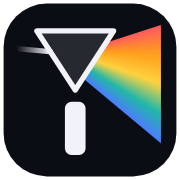
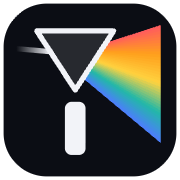
style(brand): i-PRISM 로고 글자를 i-Prism(rism 소문자)으로 변경

diff --git a/dashboard/src/components/brand/IPrismLogo.tsx b/dashboard/src/components/brand/IPrismLogo.tsx
@@ -104,12 +104,12 @@ const MARK_FAN: [string, string][] = [
 ];
 const PRISM_GLYPHS: string[] = [
   'M127.32 97.56V81.96H142.08Q149.40 81.96 153.00 79.02Q156.60 76.08 156.60 69.24Q156.60 62.76 153.30 59.58Q150.00 56.40 143.28 56.40H127.32V40.80H144.36Q151.20 40.80 157.08 42.42Q162.96 44.04 167.34 47.52Q171.72 51.00 174.18 56.28Q176.64 61.56 176.64 69.00Q176.64 78.48 172.38 84.84Q168.12 91.20 160.08 94.38Q152.04 97.56 140.40 97.56ZM112.80 120.00V40.80H132.24V120.00Z',
-  'M183.12 120.00V40.80H216.00Q221.28 40.80 226.02 41.70Q230.76 42.60 234.66 44.40Q238.56 46.20 241.44 48.96Q244.32 51.72 245.88 55.50Q247.44 59.28 247.44 64.08Q247.44 67.80 246.18 71.10Q244.92 74.40 242.22 77.04Q239.52 79.68 235.26 81.42Q231.00 83.16 225.12 83.88V84.84Q232.80 85.20 237.00 87.84Q241.20 90.48 243.30 94.50Q245.40 98.52 246.48 103.20L250.68 120.00H229.20L226.20 104.28Q225.48 100.20 223.98 97.68Q222.48 95.16 219.72 93.96Q216.96 92.76 212.40 92.76H202.56V120.00ZM202.56 77.76H213.84Q220.44 77.76 223.92 75.24Q227.40 72.72 227.40 67.56Q227.40 61.92 224.16 59.16Q220.92 56.40 214.32 56.40H202.56Z',
-  'M256.92 120.00V40.80H276.48V120.00Z',
-  'M317.16 121.68Q308.76 121.68 302.46 119.76Q296.16 117.84 291.96 114.24Q287.76 110.64 285.78 105.54Q283.80 100.44 284.04 94.20L302.04 90.24Q302.28 95.76 304.38 99.18Q306.48 102.60 310.08 104.22Q313.68 105.84 318.12 105.84Q321.72 105.84 324.48 104.94Q327.24 104.04 328.86 102.42Q330.48 100.80 330.48 98.64Q330.48 95.76 328.32 93.90Q326.16 92.04 322.38 90.72Q318.60 89.40 313.80 88.08Q308.64 86.64 303.54 84.90Q298.44 83.16 294.24 80.52Q290.04 77.88 287.46 73.68Q284.88 69.48 284.88 63.24Q284.88 55.56 288.78 50.16Q292.68 44.76 299.58 41.94Q306.48 39.12 315.36 39.12Q324.72 39.12 332.04 42.30Q339.36 45.48 343.32 51.60Q347.28 57.72 346.44 66.60L328.68 69.48Q328.80 65.88 327.96 63.12Q327.12 60.36 325.38 58.44Q323.64 56.52 321.00 55.50Q318.36 54.48 314.76 54.48Q311.04 54.48 308.58 55.44Q306.12 56.40 304.86 58.08Q303.60 59.76 303.60 61.92Q303.60 64.44 305.52 66.12Q307.44 67.80 311.04 69.06Q314.64 70.32 319.56 71.64Q324.72 73.08 329.94 74.82Q335.16 76.56 339.60 79.38Q344.04 82.20 346.74 86.64Q349.44 91.08 349.44 97.92Q349.44 105.84 345.30 111.12Q341.16 116.40 333.90 119.04Q326.64 121.68 317.16 121.68Z',
-  'M356.28 120.00V40.80H385.44L401.64 97.08H401.88L417.72 40.80H445.32V120.00H427.32V60.36H427.08L409.20 120.00H392.16L374.52 60.36H374.28V120.00Z',
+  'M182.64 120.00V85.56V56.64H199.44V81.84H200.40Q201.12 71.76 203.22 65.94Q205.32 60.12 208.50 57.66Q211.68 55.20 215.64 55.20Q217.80 55.20 220.14 55.80Q222.48 56.40 224.76 57.72L223.80 79.32Q221.16 77.76 218.64 76.98Q216.12 76.20 213.84 76.20Q210.00 76.20 207.36 78.36Q204.72 80.52 203.34 84.72Q201.96 88.92 201.96 94.92V120.00Z',
+  'M230.64 120.00V56.64H250.08V120.00ZM240.24 52.08Q234.72 52.08 231.78 49.74Q228.84 47.40 228.84 42.96Q228.84 38.40 231.78 36.06Q234.72 33.72 240.24 33.72Q245.88 33.72 248.82 36.12Q251.76 38.52 251.76 42.96Q251.76 47.28 248.82 49.68Q245.88 52.08 240.24 52.08Z',
+  'M286.44 121.68Q280.08 121.68 274.62 120.42Q269.16 119.16 265.14 116.40Q261.12 113.64 259.02 109.02Q256.92 104.40 257.28 97.80L274.20 96.36Q274.44 100.32 276.00 102.90Q277.56 105.48 280.32 106.68Q283.08 107.88 287.04 107.88Q290.76 107.88 293.46 106.62Q296.16 105.36 296.16 102.36Q296.16 100.80 295.20 99.78Q294.24 98.76 291.66 97.86Q289.08 96.96 284.16 95.76Q278.04 94.20 273.12 92.64Q268.20 91.08 264.72 88.92Q261.24 86.76 259.44 83.58Q257.64 80.40 257.64 75.72Q257.64 69.12 261.18 64.50Q264.72 59.88 270.96 57.42Q277.20 54.96 285.36 54.96Q292.68 54.96 299.04 57.24Q305.40 59.52 309.06 64.68Q312.72 69.84 311.76 78.36L295.20 79.92Q295.56 76.44 294.24 73.98Q292.92 71.52 290.40 70.26Q287.88 69.00 284.28 69.00Q280.20 69.00 277.98 70.50Q275.76 72.00 275.76 74.28Q275.76 76.08 277.14 77.34Q278.52 78.60 281.46 79.50Q284.40 80.40 289.08 81.48Q293.16 82.32 297.60 83.64Q302.04 84.96 305.88 87.18Q309.72 89.40 312.12 93.00Q314.52 96.60 314.52 102.12Q314.52 108.00 311.28 112.44Q308.04 116.88 301.80 119.28Q295.56 121.68 286.44 121.68Z',
+  'M320.76 120.00V84.84V56.64H337.20V82.44H338.16Q339.00 72.36 341.46 66.36Q343.92 60.36 348.06 57.66Q352.20 54.96 357.96 54.96Q363.96 54.96 367.68 57.90Q371.40 60.84 373.20 66.90Q375.00 72.96 374.88 82.44H375.84Q376.68 72.48 379.32 66.48Q381.96 60.48 386.28 57.72Q390.60 54.96 396.48 54.96Q401.40 54.96 405.00 56.76Q408.60 58.56 411.06 62.16Q413.52 65.76 414.72 71.22Q415.92 76.68 415.92 84.00V120.00H396.48V85.68Q396.48 81.12 395.70 78.06Q394.92 75.00 393.36 73.50Q391.80 72.00 389.40 72.00Q386.28 72.00 383.64 74.82Q381.00 77.64 379.38 83.28Q377.76 88.92 377.76 97.56V120.00H358.80V85.20Q358.80 80.64 358.02 77.76Q357.24 74.88 355.62 73.44Q354.00 72.00 351.60 72.00Q348.60 72.00 346.02 74.46Q343.44 76.92 341.82 82.56Q340.20 88.20 340.20 97.56V120.00Z',
 ];
-const PRISM_STOPS: [number, string][] = [[0.1028, '#ff5a5f'], [0.3134, '#ff9f1c'], [0.4639, '#ffd23f'], [0.6091, '#22b8a7'], [0.8558, '#4d7cfe']];
+const PRISM_STOPS: [number, string][] = [[0.1128, '#ff5a5f'], [0.3027, '#ff9f1c'], [0.4247, '#ffd23f'], [0.5693, '#22b8a7'], [0.8344, '#4d7cfe']];
 
 const safeId = (id: string) => id.replace(/[^a-zA-Z0-9_-]/g, '');
 
@@ -117,13 +117,13 @@ const safeId = (id: string) => id.replace(/[^a-zA-Z0-9_-]/g, '');
 export function IPrismLogo({ className, title = 'i-Prism' }: { className?: string; title?: string }) {
     const id = safeId(useId());
     return (
-        <svg viewBox="0 37.8 454.12 86.2" className={className} role="img" aria-label={title}>
+        <svg viewBox="0 37.8 423.64 86.2" className={className} role="img" aria-label={title}>
             <defs>
                 <linearGradient id={`${id}-beam`} gradientUnits="userSpaceOnUse" x1="0" y1="0" x2="20.4" y2="0">
                     <stop offset="0" stopColor="currentColor" stopOpacity="0" />
                     <stop offset="1" stopColor="currentColor" />
                 </linearGradient>
-                <linearGradient id={`${id}-text`} gradientUnits="userSpaceOnUse" x1="108" y1="0" x2="450.12" y2="0">
+                <linearGradient id={`${id}-text`} gradientUnits="userSpaceOnUse" x1="108" y1="0" x2="419.64" y2="0">
                     {PRISM_STOPS.map(([o, c]) => <stop key={o} offset={o} stopColor={c} />)}
                 </linearGradient>
             </defs>

diff --git a/dashboard/scripts/generate-brand.py b/dashboard/scripts/generate-brand.py
@@ -26,7 +26,7 @@ RAYS = ["#ff5a5f", "#ff9f1c", "#ffd23f", "#22b8a7", "#4d7cfe"]
 INK = "#f2f3f8"      # 독립 SVG·타일에서 i 줄기·프리즘 윤곽 색
 TILE = "#0b0d14"     # 앱 아이콘 타일 배경
 
-# 로고타입 기하(시안 H2): 역삼각형 프리즘 (14,50)-(46,50)-(30,78), i 줄기, PRISM 글자 120px·기준선 120
+# 로고타입 기하(시안 H2): 역삼각형 프리즘 (14,50)-(46,50)-(30,78), i 줄기, Prism 글자 120px·기준선 120
 FONT_SIZE, BASELINE, TEXT_X = 120, 120, 108
 RAY_END_X = TEXT_X - 6
 
@@ -73,7 +73,7 @@ def build_logotype(font):
     gs, cmap, hmtx = font.getGlyphSet(), font.getBestCmap(), font["hmtx"]
     x = TEXT_X
     glyph_paths, centers = [], []
-    for ch in "PRISM":
+    for ch in "Prism":
         name = cmap[ord(ch)]
         pen = SVGPathPen(gs, ntos=lambda v: f"{v:.2f}")
         gs[name].draw(TransformPen(pen, (scale, 0, 0, -scale, x, BASELINE)))
@@ -195,8 +195,10 @@ def render_pngs(tile):
     from PIL import Image
     from playwright.sync_api import sync_playwright
     sizes = {}
+    chrome_path = "/Applications/Google Chrome.app/Contents/MacOS/Google Chrome"
+    launch_kwargs = {"executable_path": chrome_path} if os.path.exists(chrome_path) else {}
     with sync_playwright() as p:
-        b = p.chromium.launch()
+        b = p.chromium.launch(**launch_kwargs)
         pg = b.new_page()
         for s in (180, 48, 32, 16):
             pg.set_viewport_size({"width": s, "height": s})

diff --git a/docs/project-state.md b/docs/project-state.md
@@ -9,7 +9,7 @@ Base: Exit Strategy Monitoring (KOSPI) & Brazil Bond Analysis
 
 > 세션 핸드오프 (2026-10-04, Claude Code):
 > - 🌗 Dark / Light 토글(상단 바, `ThemeToggle`) 추가. Tailwind v4 색 변수를 `html.light`에서 반전하는 방식(`scripts/generate-light-theme.py` → `app/theme-light.css`). 근거 `docs/theme-light-context-notes.md`. 시장동향 '오늘의 시장' 임베드 주소를 bulliza.com으로 교체(finance.richgo.ai 404).
-> - 🔷 서비스명 ETF Lens → **i-Prism**(Investment Prism) 리브랜딩. 로고는 역삼각형 프리즘 i + 부채꼴 스펙트럼 광선 + 그라데이션 PRISM(시안 H2). 로고·아이콘·파비콘은 `dashboard/scripts/generate-brand.py`로 생성하며 생성물(`components/brand/IPrismLogo.tsx`, `public/brand/*`, `app/icon.svg`, `app/apple-icon.png`, `app/favicon.ico`)은 직접 고치지 않는다. 결정 근거 `docs/iprism-rebrand-context-notes.md`. 도메인(etf-lens.*)과 User-Agent는 유지.
+> - 🔷 서비스명 ETF Lens → **i-Prism**(Investment Prism) 리브랜딩. 로고는 역삼각형 프리즘 i + 부채꼴 스펙트럼 광선 + 그라데이션 Prism(rism 소문자, 시안 H2). 로고·아이콘·파비콘은 `dashboard/scripts/generate-brand.py`로 생성하며 생성물(`components/brand/IPrismLogo.tsx`, `public/brand/*`, `app/icon.svg`, `app/apple-icon.png`, `app/favicon.ico`)은 직접 고치지 않는다. 결정 근거 `docs/iprism-rebrand-context-notes.md`. 도메인(etf-lens.*)과 User-Agent는 유지.
 > - 🐛 대선 D-day 고정값 버그 수정: `ElectionPlaybookSection`의 `D-3 SPECIAL` 라벨과 Tranche 3 카드의 "(D-3 진입 중)"이 JSX에 하드코딩돼 있었고, `_build_election_prompt`도 "D-2~D-3일 앞둔 시점"으로 고정돼 있어 AI 재생성 시에도 같은 D-day가 나왔다. 이제 프론트는 `getElectionDDayLabel()`, 백엔드는 `_election_phase_text()`가 오늘 날짜(KST)와 `CATALYSTS` 대선 일정으로 계산한다. 회귀 테스트는 `test_election_prompt_uses_dynamic_dday`.
 > - 📰 관련 뉴스 피드 개편: 2열 박스 → 최신순 리스트(5건 높이, 최대 30건 스크롤), 항목 클릭 시 팝업(언론사·발행시각·원문 링크), [뉴스 업데이트] 버튼(`refresh=true` 라이브 재수집). 뉴스가 10/2에 멈춰 보이던 원인은 관련성 필터(`_RELEVANT_TOKENS`)가 대선 기사를 떨어뜨리고 검색어에 대선이 없던 것이었다. "브라질 대선" 검색어와 "대선·선거·변동성" 토큰을 추가했고, `get_recent_news`에서 제목 기준 중복을 제거한다. Google News RSS는 본문을 주지 않아 팝업에는 요약 없이 원문 링크만 둔다.
 > - 🧹 저장소 정리: 체크리스트 `docs/housekeeping-2026-10-checklist.md`, 결정 근거 `docs/housekeeping-2026-10-context-notes.md`. 배포본은 `dashboard/`이고 `frontend/`는 2026-02 이후 미사용이다.

diff --git a/docs/iprism-rebrand-context-notes.md b/docs/iprism-rebrand-context-notes.md
@@ -5,7 +5,7 @@
 - 서비스명은 i-Prism(Investment Prism)이다. 텍스트 표기(탭 제목, 문구)는 "i-Prism"을 쓴다.
 - 로고는 시안 H2다. 작은 i의 점이 역삼각형 프리즘이고, 왼쪽에서 들어온 흰 빛이 오른쪽으로 부채꼴처럼 퍼진다.
   광선은 끊김 없는 스펙트럼이고, 색 띠가 왼쪽에서 좁다가 오른쪽으로 갈수록 넓어진다(부채꼴 방향).
-- PRISM은 i보다 크다. 다섯 색(빨강·주황·노랑·청록·파랑)을 글자 가운데에 두고 이웃 글자와 이어지는 그라데이션으로 칠한다.
+- Prism(rism 소문자)은 i보다 크다. 다섯 색(빨강·주황·노랑·청록·파랑)을 글자 가운데에 두고 이웃 글자와 이어지는 그라데이션으로 칠한다.
 - 퍼지는 빛은 분산 투자를 뜻한다.
 - 시안 페이지: https://claude.ai/artifact/Me5WWgBSpeGvbPX2AHR4Rs (5차 버전이 확정본)
 
